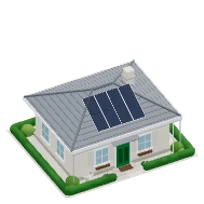
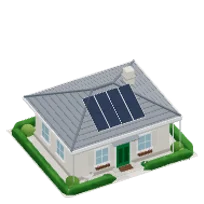
3D map: billowed tree crowns, shrubs and clipped hedges replace the balls and tubes
- crowns.js: a backdrop tree or shrub is one billowed crown (outer skin of a cluster
  of spheres, flatter underneath) in four habits; a hedge side is one clipped run
  that swells and dips. Shade is baked per vertex and carried in uv.x.
- The hedge surface reads that shade; no new material, draw call or noise lookup.
- Trunks taper, lean and send three limbs into the crown.
- Triangles and draw calls unchanged on the farm and garden harnesses.
- zone-house picture re-rendered (the only small picture with a hedge).

Claude-Session: https://claude.ai/code/session_015cd1CPcgVws6SSknyxPWSB

diff --git a/src/features/grove/Grove3D.jsx b/src/features/grove/Grove3D.jsx
@@ -36,6 +36,7 @@ import { TREE_RE } from "./crop-families";
 import { PAL, STAGE_COLOR, NIGHT, WIND, DETAIL, setDetail, detailFor, setEnvironment, fillLight, bakeSource, mergeBaked, nightGlow, nightTint, texture, ripple, flat, layered, rbox, box, ball, tube, ring, disc, plane, pill, bar, instances, rboxGeo, sphereGeo, capsuleGeo, cylGeo, discGeo, HPI, clamp, clamp01, smoothstep } from "./toy";
 import { cropScale, buildCrops } from "./crops3d";
 import { DECO_TREES } from "./trees-real";
+import { crownGeo, hedgeGeo } from "./crowns";
 import { skyState, FIXED_SKY, vaneAngle, cloudCount, precipCount } from "./sky";
 import { WX, buildClouds, buildPrecip, RAIN_SPAN } from "./weather-fx";
 import { ORNAMENTS, wheelbarrow, barrel, crates, birdbath, mailbox, scarecrow, tractor, ladder, fruitCrate, rake, lilyPads, reeds, jetty, silo, cloche, hoseReel, hayScatter } from "./props3d";
@@ -190,23 +191,22 @@ function tree(g, x, z, r, seed, M, y = 0, leafIdx = null) {
   const mk = new THREE.Object3D(); mk.position.set(x, y, z); mk.userData.decoTree = { x, z, r, seed, y, leafIdx }; g.add(mk);
   if (M.blob) disc(g, r * 1.12, M.blob, x, y + .028, z, { seg: 20, cast: false, receive: false }); // a soft dark patch grounds every tree
 }
-function toyTree(g, x, z, r, seed, M, y = 0, leafIdx = null) { // a backdrop tree: round crowns in the leafy hedge surface, cheap per pixel
+/* a mass of leaves (crowns.js): billowed, flatter underneath, its shade baked in. sc = [x, y, z] radii in metres */
+function clump(g, habit, variant, mat, x, y, z, sc, ry = 0, cast = true) {
+  const m = new THREE.Mesh(crownGeo(habit, variant), mat); m.position.set(x, y, z); m.scale.set(sc[0], sc[1], sc[2]); m.rotation.y = ry; m.castShadow = cast; m.receiveShadow = true; g.add(m); return m;
+}
+const TREE_HABITS = ["round", "round", "wide", "round", "tall", "wide"];
+function toyTree(g, x, z, r, seed, M, y = 0, leafIdx = null) { // a backdrop tree: one billowed crown in the leafy hedge surface, cheap per pixel
   if (y) { const tg = new THREE.Group(); tg.position.y = y; g.add(tg); g = tg; }
   const th = r * .55 + .3, leaf = M.leaf[leafIdx ?? Math.floor(srand(seed + 3) * 4)], spin = srand(seed) * 6.28;
-  const trunk = tube(g, r * .11, r * .16, th + r * .6, M.bark, x, (th + r * .6) / 2, z, { seg: 12 }); trunk.rotation.z = (srand(seed + 7) - .5) * .06;
-  const top = th + r * .9;
-  // two short branches forking out of the trunk into the crown
-  [0, 2.4].forEach((a, i) => pill(g, [x, th + r * .25, z], [x + Math.cos(spin + a) * r * .38, th + r * .75 + i * r * .1, z + Math.sin(spin + a) * r * .38], r * .055, M.bark, { seg: 7, cast: false }));
-  // a smooth lumpy crown: five overlapping spheres, slightly squashed, the biggest on top, a lighter one where the sun hits
-  const blob = (rr, dx, dy, dz, sy, mat = leaf, seg = 16, rings = 12) => ball(g, [rr, rr * sy, rr], mat, x + dx, top + dy, z + dz, { seg, rings, minSeg: 10, minRings: 7 }); // crowns are big on screen: they stay round on the phone tier
-  blob(r * .92, 0, 0, 0, .86);
-  blob(r * .66, Math.cos(spin) * r * .5, -r * .3, Math.sin(spin) * r * .5, .82);
-  blob(r * .58, -Math.cos(spin + .9) * r * .48, -r * .2, -Math.sin(spin + .9) * r * .48, .84);
-  blob(r * .5, Math.cos(spin + 2.1) * r * .55, -r * .36, Math.sin(spin + 2.1) * r * .55, .8, leaf, 12, 9);
-  blob(r * .44, Math.cos(spin + 3.9) * r * .4, r * .3, Math.sin(spin + 3.9) * r * .4, .9, M.leaf[leafIdx != null ? leafIdx : 2], 12, 9); // the sunlit top
+  const habit = TREE_HABITS[Math.floor(srand(seed + 11) * TREE_HABITS.length)], tall = habit === "tall", k = r * (1.04 + srand(seed + 13) * .1), top = th + r * (tall ? 1.15 : .9);
+  // a trunk that thickens to the ground and leans a little, with three limbs reaching up into the crown
+  const trunk = tube(g, r * .075, r * .15, th + r * .6, M.bark, x, (th + r * .6) / 2, z, { seg: 12 }); trunk.rotation.z = (srand(seed + 7) - .5) * .08; trunk.rotation.x = (srand(seed + 8) - .5) * .06;
+  [0, 2.2, 4.3].forEach((a, i) => pill(g, [x, th + r * .15, z], [x + Math.cos(spin + a) * r * .42, th + r * (.62 + i * .08), z + Math.sin(spin + a) * r * .42], r * .04, M.bark, { seg: 7, cast: false }));
+  clump(g, habit, Math.floor(srand(seed + 5) * 3), leaf, x, top, z, [k, k * (.94 + srand(seed + 17) * .14), k], spin);
 }
 /* Trees standing on the property are look-C models (trees-real.js), drawn with the crops and orchard trees: instanced,
-   swaying, their own level of detail. Backdrop trees (border, street, neighbours, countryside) stay round toy crowns in
+   swaying, their own level of detail. Backdrop trees (border, street, neighbours, countryside) are billowed toy crowns (crowns.js) in
    the leafy surface: fifty look-C crowns cost a third more frame time on a farm, all of it per-pixel leaf shading. */
 function plantDecoTrees(world, ctx, M) {
   const marks = []; world.updateMatrixWorld(true); world.traverse((o) => { if (o.userData.decoTree) marks.push(o); });
@@ -265,10 +265,10 @@ function gate(g, x, z, width, ry, M, { pickets = false } = {}) {
   box(gg, .07, .1, .12, M.metal, inner / 2 + .07, .85, .06, { cast: false });
   return gg;
 }
-function hedge(g, segs, M, { h = 1.4, t = .8 } = {}) { // a clipped hedge: one rounded pill per run
-  segs.forEach(([a, b]) => {
+function hedge(g, segs, M, { h = 1.4, t = .8 } = {}) { // a clipped hedge: one run of crowns.js hedgeGeo per side, swelling and dipping a little
+  segs.forEach(([a, b], i) => {
     const len = Math.hypot(b[0] - a[0], b[1] - a[1]); if (len < .3) return;
-    rbox(g, len + t * .5, h, t, M.hedge, (a[0] + b[0]) / 2, h / 2 - .02, (a[1] + b[1]) / 2, { ry: Math.atan2(-(b[1] - a[1]), b[0] - a[0]), r: Math.min(h, t) * .48, seg: DETAIL.value >= 1 ? 3 : 2 }); // look A: a fully rounded, plump top
+    const m = new THREE.Mesh(hedgeGeo(len, h, t, Math.round(a[0] * 7 + a[1] * 13 + i * 31)), M.hedge); m.position.set((a[0] + b[0]) / 2, -.02, (a[1] + b[1]) / 2); m.rotation.y = Math.atan2(-(b[1] - a[1]), b[0] - a[0]); m.castShadow = true; m.receiveShadow = true; g.add(m);
   });
 }
 function shelter(g, x, z, w, d, M, ry = 0) { // open-sided field shelter: chunky capsule posts, a rounded plank back wall, a thick rounded mono-pitch roof
@@ -1203,7 +1203,7 @@ function balconyEdge(world, ctx, fW, fH, M) {
   const nt = Math.max(2, Math.min(4, Math.round((x1 - x0) / 5)));
   for (let i = 0; i < nt; i++) { const x = x0 + (i + .5) * (x1 - x0) / nt + (srand(i + 51) - .5) * 1.2, z = fH + 2.6 + srand(i + 57) * 3.2; tree(world, x, z, 1.35 + srand(i + 53) * .4, i + 61, M, -drop); }
   { const cg = new THREE.Group(); cg.position.y = -drop; world.add(cg); // shrubs along the foot of the building and two benches on the paving
-    for (let x = x0 + .6; x < x1 - .4; x += 1.1 + srand(Math.round(x * 3) + 451) * .5) { const r = .38 + srand(Math.round(x * 7) + 455) * .16, k = Math.abs(Math.round(x * 11)); ball(cg, [r * 1.25, r, r * 1.1], M.leaf[k % 4], x, r * .8, 1.9 + srand(Math.round(x * 5) + 453) * .3, { seg: 14, rings: 10, minSeg: 10, minRings: 7 }); ball(cg, [r * .8, r * .7, r * .8], M.leaf[(k + 1) % 4], x + r * .7, r * .55, 2.05, { seg: 12, rings: 9, minSeg: 9, minRings: 6 }); }
+    for (let x = x0 + .6; x < x1 - .4; x += 1.1 + srand(Math.round(x * 3) + 451) * .5) { const r = .38 + srand(Math.round(x * 7) + 455) * .16, k = Math.abs(Math.round(x * 11)); clump(cg, "shrub", k % 3, M.leaf[k % 4], x, r * .62, 1.9 + srand(Math.round(x * 5) + 453) * .3, [r * 1.35, r * 1.25, r * 1.2], k); clump(cg, "shrub", (k + 1) % 3, M.leaf[(k + 1) % 4], x + r * .75, r * .42, 2.05, [r * .9, r * .85, r * .9], k * 2); }
     ORNAMENTS.bench(cg, x0 + (x1 - x0) * .3, .9, { ry: 0 }); ORNAMENTS.bench(cg, x0 + (x1 - x0) * .72, .9, { ry: 0 }); }
   balconyTown(world, ctx, fW, fH, M, x0, x1, win);
 }
@@ -1356,7 +1356,7 @@ function gardenLife(g, ctx, fW, fH, M, free) {
   for (let z = .4; z < fH - .3; z += .45) border.push([.32, z], [fW - .32, z]);
   for (let x = .75; x < fW - .7; x += .45) border.push([x, fH - .32]);
   border.forEach(([x, z], i) => { if (!free(x, z, .18, .18, .05) || !offShed(x, z)) return; if (i % 3 === 0) shrubs.push([x, z, .2 + srand(i + 501) * .12, i]); else { headsAt(ctx, x, .22, z, 3, .26, 520 + i); (ctx.tufts ||= []).push({ p: [x, 0, z], ry: srand(i + 523) * 3, s: .7 }); } });
-  shrubs.forEach(([x, z, r, i]) => ball(g, [r * 1.2, r, r * 1.1], M.leaf[i % 4], x, r * .85, z, { seg: 10, rings: 7 }));
+  shrubs.forEach(([x, z, r, i]) => clump(g, "shrub", i % 3, M.leaf[i % 4], x, r * .66, z, [r * 1.3, r * 1.25, r * 1.2], i * 1.7));
   // props in free corners and along the sides (each tries a few spots; none goes on a bed, pot area or path)
   const side = []; for (let z = fH - .75; z > .7; z -= .35) side.push([.75, z], [fW - .75, z]); for (let x = 1.2; x < fW - 1.1; x += .4) side.push([x, fH - .75], [fW - x, fH - .75]);
   const bin = tryAt(side.filter(([x, z]) => !shed || Math.hypot(x - shed[0], z - shed[1]) > 1.6), .45, .45, (x, z) => compostBin(g, x, z, M));

diff --git a/src/features/grove/crowns.js b/src/features/grove/crowns.js
@@ -1,0 +1,76 @@
+/* ═══════════════════════════════════════════
+   CROWNS — foliage shapes for everything that is drawn as one mass of leaves:
+   backdrop trees, shrubs and clipped hedges (the look-C plants have their own leaves).
+   A crown is a ball pushed out into billows: the outer skin of a cluster of overlapping
+   spheres, flatter underneath. A hedge is a clipped run that swells and dips a little.
+   Shade is baked per vertex and carried in uv.x as 2 + shade (uv survives bake(); the
+   `hedge` surface in toy.js reads it; ordinary shapes have uv.x <= 1 and are left alone).
+   Rules: docs/MAP_STYLE.md §12.   MARKER: GROVE_CROWNS_V1
+   ═══════════════════════════════════════════ */
+import * as THREE from "three";
+import { mergeVertices } from "three/examples/jsm/utils/BufferGeometryUtils.js";
+import { DETAIL } from "./toy";
+import { srand } from "./sceneMath";
+
+/* sx, sy: proportions. lobes: billows. lo: how far down the sides they start (-1 bottom, 1 top).
+   off / size: how far out a billow sits and how big it is, in crown radii. base: where the underside is cut flat. */
+const HABIT = {
+  round: { sx: 1, sy: .9, lobes: 11, lo: -.2, off: [.4, .56], size: [.46, .62], base: -.3 },
+  wide: { sx: 1.2, sy: .68, lobes: 12, lo: -.05, off: [.46, .62], size: [.42, .56], base: -.22 },
+  tall: { sx: .8, sy: 1.28, lobes: 12, lo: -.45, off: [.36, .5], size: [.44, .58], base: -.5 },
+  shrub: { sx: 1.1, sy: .82, lobes: 6, lo: .05, off: [.34, .48], size: [.5, .64], base: -.18 },
+};
+export const CROWN_HABITS = Object.keys(HABIT);
+// triangle budget [full detail, phone farm tier]; an icosphere of detail n has 20 (n + 1)² triangles
+export const CROWN_TRIS = { tree: [1280, 500], shrub: [320, 180] };
+const DETAILS = { tree: [7, 4], shrub: [3, 2] };
+const smooth = (a, b, x) => { const t = Math.max(0, Math.min(1, (x - a) / (b - a))); return t * t * (3 - 2 * t); };
+const cache = new Map();
+
+export function crownGeo(habit = "round", variant = 0) {
+  const H = HABIT[habit] || HABIT.round, kind = habit === "shrub" ? "shrub" : "tree", detail = DETAILS[kind][DETAIL.value >= 1 ? 0 : 1];
+  const key = `${habit}|${variant}|${detail}`; let geo = cache.get(key); if (geo) return geo;
+  const seed = CROWN_HABITS.indexOf(habit) * 97 + variant * 31 + 5, lobes = [];
+  for (let k = 0; k < H.lobes; k++) { // billows spiralled over the top and sides, each a sphere set a little way out from the middle
+    const y = H.lo + (1 - H.lo) * ((k + .5) / H.lobes), a = k * 2.39996 + srand(seed + k) * 1.1, rr = Math.sqrt(Math.max(0, 1 - y * y));
+    const off = H.off[0] + (H.off[1] - H.off[0]) * srand(seed + k * 3 + 1), size = H.size[0] + (H.size[1] - H.size[0]) * srand(seed + k * 5 + 2);
+    lobes.push([Math.cos(a) * rr * off, y * off, Math.sin(a) * rr * off, off * off - size * size]);
+  }
+  const ico = new THREE.IcosahedronGeometry(1, detail), bare = new THREE.BufferGeometry(); bare.setAttribute("position", ico.attributes.position.clone()); ico.dispose();
+  geo = mergeVertices(bare, 1e-4); bare.dispose();
+  const p = geo.attributes.position, n = p.count, crease = new Float32Array(n); let far = 0;
+  for (let i = 0; i < n; i++) {
+    const dx = p.getX(i), dy = p.getY(i), dz = p.getZ(i); let r1 = .6, r2 = 0; // .6: the core, so every direction has a surface
+    for (const [lx, ly, lz, c] of lobes) { const b = dx * lx + dy * ly + dz * lz, disc = b * b - c; if (disc < 0) continue; const t = b + Math.sqrt(disc); if (t > r1) { r2 = r1; r1 = t; } else if (t > r2) r2 = t; }
+    crease[i] = smooth(0, .15, r1 - r2); // 0 in the folds between two billows
+    const r = r1 * (1 + (srand(seed + i * 7.3) - .5) * .05); far = Math.max(far, r); p.setXYZ(i, dx * r, dy * r, dz * r);
+  }
+  let lo = Infinity, hi = -Infinity;
+  for (let i = 0; i < n; i++) { let y = p.getY(i) / far; if (y < H.base) y = H.base + (y - H.base) * .35; y *= H.sy; p.setXYZ(i, p.getX(i) / far * H.sx, y, p.getZ(i) / far * H.sx); lo = Math.min(lo, y); hi = Math.max(hi, y); }
+  const uv = new Float32Array(n * 2);
+  for (let i = 0; i < n; i++) { const h = (p.getY(i) - lo) / (hi - lo); uv[i * 2] = 2 + (.6 + .4 * crease[i]) * (.62 + .5 * smooth(0, 1, h)); uv[i * 2 + 1] = h; }
+  geo.setAttribute("uv", new THREE.BufferAttribute(uv, 2)); geo.computeVertexNormals(); geo.userData.shared = true; cache.set(key, geo);
+  return geo;
+}
+
+/* One clipped hedge run along x, centred, standing on y = 0: battered sides, rounded shoulders, a gently domed top,
+   quarter-domed ends. It swells and dips by a few per cent so no two metres are the same. Built per run, not cached. */
+const PROFILE = [[1.04, 0], [1.02, .34], [.97, .68], [.84, .9], [.55, 1], [0, 1.03]]; // half section: (z in half thicknesses, y in heights)
+const wave = (x, seed) => { const i = Math.floor(x), f = x - i, u = f * f * (3 - 2 * f); return srand(seed + i * 13.7) * (1 - u) + srand(seed + (i + 1) * 13.7) * u; };
+export function hedgeGeo(len, h, t, seed = 1) {
+  const cap = t * .5, total = len + t * .5, step = DETAIL.value >= 1 ? .5 : .9, rings = Math.max(4, Math.ceil(total / step)) + 1;
+  const section = [...PROFILE.map(([z, y]) => [z, y]), ...PROFILE.slice(0, -1).reverse().map(([z, y]) => [-z, y])], m = section.length;
+  const pos = new Float32Array(rings * m * 3), uv = new Float32Array(rings * m * 2), idx = [];
+  for (let i = 0; i < rings; i++) {
+    const x = -total / 2 + total * i / (rings - 1), e = Math.min(x + total / 2, total / 2 - x), f = e >= cap ? 1 : Math.sqrt(Math.max(0, 1 - (1 - e / cap) ** 2));
+    const tall = 1 + (wave(x * .55, seed) - .5) * .12, fat = 1 + (wave(x * .8 + 40, seed) - .5) * .18, tone = .95 + wave(x * .35 + 80, seed) * .1;
+    for (let j = 0; j < m; j++) {
+      const [z, y] = section[j], o = (i * m + j) * 3, bulge = 1 + (wave(x * 1.1 + j * 3.1, seed + 9) - .5) * .08 * y;
+      pos[o] = x; pos[o + 1] = y * h * tall * (.25 + .75 * f) * (y > 0 ? 1 : 0); pos[o + 2] = z * t / 2 * fat * bulge * f;
+      uv[(i * m + j) * 2] = 2 + (.76 + .34 * smooth(0, 1, y)) * tone; uv[(i * m + j) * 2 + 1] = y;
+    }
+    if (i) for (let j = 0; j < m - 1; j++) { const a = (i - 1) * m + j, b = i * m + j; idx.push(a, b, a + 1, a + 1, b, b + 1); }
+  }
+  const geo = new THREE.BufferGeometry(); geo.setAttribute("position", new THREE.BufferAttribute(pos, 3)); geo.setAttribute("uv", new THREE.BufferAttribute(uv, 2)); geo.setIndex(idx); geo.computeVertexNormals();
+  return geo;
+}

diff --git a/tests/crowns.test.js b/tests/crowns.test.js
@@ -1,0 +1,58 @@
+import test from 'node:test';
+import assert from 'node:assert/strict';
+import { crownGeo, hedgeGeo, CROWN_HABITS, CROWN_TRIS } from '../src/features/grove/crowns.js';
+import { setDetail } from '../src/features/grove/toy.js';
+
+const radii = (g) => { const p = g.attributes.position, out = []; for (let i = 0; i < p.count; i++) out.push(Math.hypot(p.getX(i), p.getY(i), p.getZ(i))); return out; };
+const tris = (g) => g.index.count / 3;
+const flagged = (g) => { const u = g.attributes.uv; for (let i = 0; i < u.count; i++) if (!(u.getX(i) >= 2.3 && u.getX(i) <= 3.3)) return false; return true; };
+
+test('crowns: every habit is an indexed, lumpy, shade-flagged form inside its triangle budget', () => {
+  setDetail(1);
+  for (const habit of CROWN_HABITS) for (let v = 0; v < 3; v++) {
+    const g = crownGeo(habit, v);
+    assert.ok(g.index && g.attributes.normal && g.attributes.uv, habit + ' attributes');
+    assert.ok(tris(g) <= CROWN_TRIS[habit === 'shrub' ? 'shrub' : 'tree'][0], `${habit} ${tris(g)} triangles`);
+    const r = radii(g), lo = Math.min(...r), hi = Math.max(...r);
+    assert.ok(hi / lo > 1.25, `${habit} v${v} is not a ball (${(hi / lo).toFixed(2)})`);
+    assert.ok(flagged(g), habit + ' carries the shade flag in uv.x');
+    assert.ok(g.userData.shared, 'cached crowns survive a rebuild');
+    const p = g.attributes.position, n = g.attributes.normal; let out = 0;
+    for (let i = 0; i < p.count; i++) if (p.getX(i) * n.getX(i) + p.getY(i) * n.getY(i) + p.getZ(i) * n.getZ(i) > 0) out++;
+    assert.ok(out > p.count * .9, habit + ' faces outwards');
+  }
+});
+test('crowns: same arguments give the same cached geometry; variants differ', () => {
+  setDetail(1);
+  assert.equal(crownGeo('round', 1), crownGeo('round', 1));
+  assert.notEqual(crownGeo('round', 1), crownGeo('round', 2));
+  const a = crownGeo('round', 0).attributes.position.array, b = crownGeo('round', 2).attributes.position.array;
+  let diff = 0; for (let i = 0; i < a.length; i++) diff += Math.abs(a[i] - b[i]);
+  assert.ok(diff > 5, 'variants are different shapes');
+});
+test('crowns: the phone farm tier builds lighter crowns', () => {
+  setDetail(.45); const light = crownGeo('round', 0); setDetail(1); const full = crownGeo('round', 0);
+  assert.ok(tris(light) <= CROWN_TRIS.tree[1] && tris(light) < tris(full));
+});
+test('crowns: a crown is flatter underneath than on top, and darker there', () => {
+  setDetail(1);
+  const g = crownGeo('round', 0), p = g.attributes.position, u = g.attributes.uv; let lo = 0, hi = 0, sLo = 0, sHi = 0;
+  for (let i = 0; i < p.count; i++) { if (p.getY(i) < p.getY(lo)) lo = i; if (p.getY(i) > p.getY(hi)) hi = i; }
+  sLo = u.getX(lo); sHi = u.getX(hi);
+  assert.ok(-p.getY(lo) < p.getY(hi) * .8, 'flat base');
+  assert.ok(sLo < sHi - .2, 'underside is shaded');
+});
+test('crowns: a hedge run covers its length, sits on the ground and keeps its height within a few per cent', () => {
+  setDetail(1);
+  const g = hedgeGeo(12, 1.4, .8, 7); g.computeBoundingBox(); const b = g.boundingBox;
+  assert.ok(g.index && flagged(g));
+  assert.ok(Math.abs(b.min.y) < 1e-6 && b.max.y > 1.4 * .95 && b.max.y < 1.4 * 1.12);
+  assert.ok(b.max.x - b.min.x > 12 && b.max.x - b.min.x < 12 + .8);
+  assert.ok(b.max.z - b.min.z > .8 * .9 && b.max.z - b.min.z < .8 * 1.25);
+  assert.ok(tris(g) < 12 * 60, tris(g) + ' triangles');
+  assert.notEqual(hedgeGeo(12, 1.4, .8, 7), g, 'hedge runs are not cached');
+  const p = g.attributes.position, n = g.attributes.normal; let top = 0, side = 0;
+  for (let i = 0; i < p.count; i++) { if (p.getY(i) > p.getY(top)) top = i; if (Math.abs(p.getX(i)) < 3 && p.getZ(i) > p.getZ(side)) side = i; }
+  assert.ok(n.getY(top) > .7, 'the top faces up (winding)');
+  assert.ok(n.getZ(side) > .7, 'the +z side faces out');
+});

diff --git a/src/features/grove/toy.js b/src/features/grove/toy.js
@@ -160,7 +160,7 @@ const TEX = {
   hay: `{ float fine = g3fine(14., 40.); vec3 p = vG3W, c = diffuseColor.rgb;
   if (fine > .02) { float st = max(g3n(vec2(p.x * 70. + p.y * 30., p.z * 6.)), g3n(vec2(p.z * 64. - p.y * 26., p.x * 7.))); c *= mix(1., .8 + st * .36, fine); g3H = st * .01; g3K = fine; }
   diffuseColor.rgb = mix(c, c * vec3(.8, .74, .6), smoothstep(.6, .8, g3n(p.xz * 3.)) * .4); }`,
-  hedge: `{ vec3 p = vG3W; float fine = g3fine(16., 45.); float n = g3n(p.xz * 2.2 + p.y * 3.7) * .55 + g3n(p.xy * 3.5 + p.z * 2.) * .45; vec3 c = diffuseColor.rgb * (.78 + n * .44);
+  hedge: `{ vec3 p = vG3W; float fine = g3fine(16., 45.); float n = g3n(p.xz * 2.2 + p.y * 3.7) * .55 + g3n(p.xy * 3.5 + p.z * 2.) * .45; vec3 c = diffuseColor.rgb * (.78 + n * .44) * (vG3U.x > 1.5 ? vG3U.x - 2. : 1.); /* crowns.js bakes its shade into uv.x as 2 + shade */
   if (fine > .02) { vec2 q = g3uv(g3face()) * 15. + p.zx * 4., i = floor(q), f = fract(q); float s = g3h(i), leafy = 1. - smoothstep(.18, .5, length(f - .5 - (vec2(s, g3h(i + 7.)) - .5) * .5));
     c = mix(c, mix(c * .55, c * (.92 + s * .34) * mix(vec3(1.), vec3(1.14, 1.06, .78), g3h(i + 3.)), leafy), fine); g3H = leafy * .02; g3K = fine; }
   diffuseColor.rgb = c; }`,

diff --git a/tests/domain.test.js b/tests/domain.test.js
@@ -16,6 +16,7 @@ import './animals-real.test.js';
 import './surfaces.test.js';
 import './toy.test.js';
 import './planting-flow.test.js';
+import './crowns.test.js';
 import test from 'node:test';
 import assert from 'node:assert/strict';
 import {companionsFor,relation,growthOf,validatePlantingLayout,bedLength,bedRows,animalZone,freePlantingRows} from '../src/features/quiet/farm-model.js';

diff --git a/docs/MAP_STYLE.md b/docs/MAP_STYLE.md
@@ -153,7 +153,17 @@ Buildings, ground and props keep the toy SHAPES below; their surfaces follow §1
 - **Helpers:** `g3face()` world normal of the face; `g3uv(n)` metres along and up a wall or across a floor; `g3member()` metres along and across the longer side of the face, worked out from the primitive's own uv, which is why merged geometry keeps its uv attribute.
 - **Cost rule (enforced in `tests/surfaces.test.js`):** all fine detail sits inside `if (fine > .02)`. Far from the camera a surface pays for at most two noise lookups and no derivatives, as before look C.
 - **Which material gets which kind:** `materials()` in Grove3D.jsx. New material `M.sheet` (corrugated roof sheet) on the field shelter.
-- **Decoration trees.** `tree()` leaves a marker; `plantDecoTrees` resolves the markers once the world is assembled. A tree standing ON the property becomes a look-C model drawn by `buildCrops` (species by the old leaf-colour index: oak, lime, maple, birch, olive, citrus — `DECO_TREES`; level of detail 1 or lighter by count, never changing the orchard's level). Backdrop trees (border, street, neighbours, countryside) stay round toy crowns (`toyTree`) in the `hedge` surface. Tried and dropped: look-C models for all fifty border trees cost a third more frame time on a farm, all of it per-pixel leaf shading, and at their light levels they looked worse than round crowns.
+- **Decoration trees.** `tree()` leaves a marker; `plantDecoTrees` resolves the markers once the world is assembled. A tree standing ON the property becomes a look-C model drawn by `buildCrops` (species by the old leaf-colour index: oak, lime, maple, birch, olive, citrus — `DECO_TREES`; level of detail 1 or lighter by count, never changing the orchard's level). Backdrop trees (border, street, neighbours, countryside) are toy crowns (`toyTree`) in the `hedge` surface — billowed since 2026-11-11, see §12. Tried and dropped: look-C models for all fifty border trees cost a third more frame time on a farm, all of it per-pixel leaf shading, and at their light levels they looked worse than round crowns.
 - **Measured 2026-11-10** (headless Chrome, software rasteriser, phone tile; fastest of 14 frames, before → after): balcony 324 → 355–362 ms (about +10 %); back garden 324 → 333–352 ms (+3 to +9 %); all-zones farm 677 → 618–656 ms (no cost: at overview distance the detail is switched off). Averages of five frames swing by ±15 % between runs on this machine and are not usable. The software rasteriser overstates per-pixel cost against a real GPU. **Not measured on a phone.**
 - **Bundle:** Grove3D chunk 240.4 KB gzip. The budget is raised from 240 to **245 KB** (2026-11-10) to ship this slice: the surfaces are 3 KB of shader text, and splitting the chunk would make two files, not a smaller download. Next time the answer has to be taking something out.
 - **Known weak points:** Wood grain direction is a guess on near-square faces. Stone coursing is drawn on every stone-coloured object, round ones included.
+
+## 12. Foliage masses — backdrop trees, shrubs and hedges (`crowns.js`; 2026-11-11)
+- **What changed.** These three were the last ball-and-tube shapes on the map: a backdrop tree was five overlapping spheres, a shrub one sphere, a hedge one rounded box per side. Now a tree or shrub is one **billowed crown** (`crownGeo(habit, variant)`): the outer skin of a cluster of overlapping spheres, cut flatter underneath, with a slightly ragged outline. A hedge side is one **clipped run** (`hedgeGeo(len, h, t, seed)`): battered sides, rounded shoulders, a gently domed top, quarter-domed ends, swelling and dipping by a few per cent along its length.
+- **Habits:** `round`, `wide` (umbrella), `tall`, and `shrub`; three variants each. `toyTree` picks habit and variant from the tree's seed (half round, a third wide, a sixth tall), turns the crown by the seed and varies its size by 10 %. The trunk tapers from 15 % of the crown radius at the ground to 7.5 %, leans a little and sends three limbs into the crown.
+- **Shade is baked, not lit.** Each vertex carries `uv.x = 2 + shade`: darker in the folds between billows and underneath, lighter on top (hedges: darker at the foot). The `hedge` surface in toy.js multiplies the colour by it when `uv.x > 1.5`; every other shape has `uv.x` between 0 and 1 and is untouched. uv is the only spare attribute that survives `bake()`, which is why it is used. No new material, no new draw call, no extra noise lookup.
+- **Cost.** Crowns are cached (three per habit and detail level) and flagged `shared`; hedge runs are built per run and freed on rebuild. Triangles per crown: tree 1,280 at full detail, 500 on the phone farm tier; shrub 320 / 180 (`CROWN_TRIS`, enforced in `tests/crowns.test.js`). A hedge ring every 0.5 m (0.9 m on the phone farm tier), 20 triangles a ring. Measured on the harnesses, before → after: all-zones farm, phone tier 404,968 → 402,848 triangles; desktop 619,694 → 618,406; back garden 192,062 → 192,872; draw calls unchanged (197 / 98). Not measured on a phone.
+- **Small pictures:** only `zone-house.webp` contains a hedge; it was re-rendered. Zone tiles and tree pictures use the look-C trees, so nothing else changed.
+- **Bundle:** Grove3D chunk 242.6 KB gzip of the 245 KB budget. Most of the 2 KB is three's icosphere, which nothing used before.
+- **Faces must point out.** A hedge run with its triangles wound the wrong way still draws — you see the far wall from inside, as a flat dark band — so the test checks that the top faces up and the side faces out.
+
